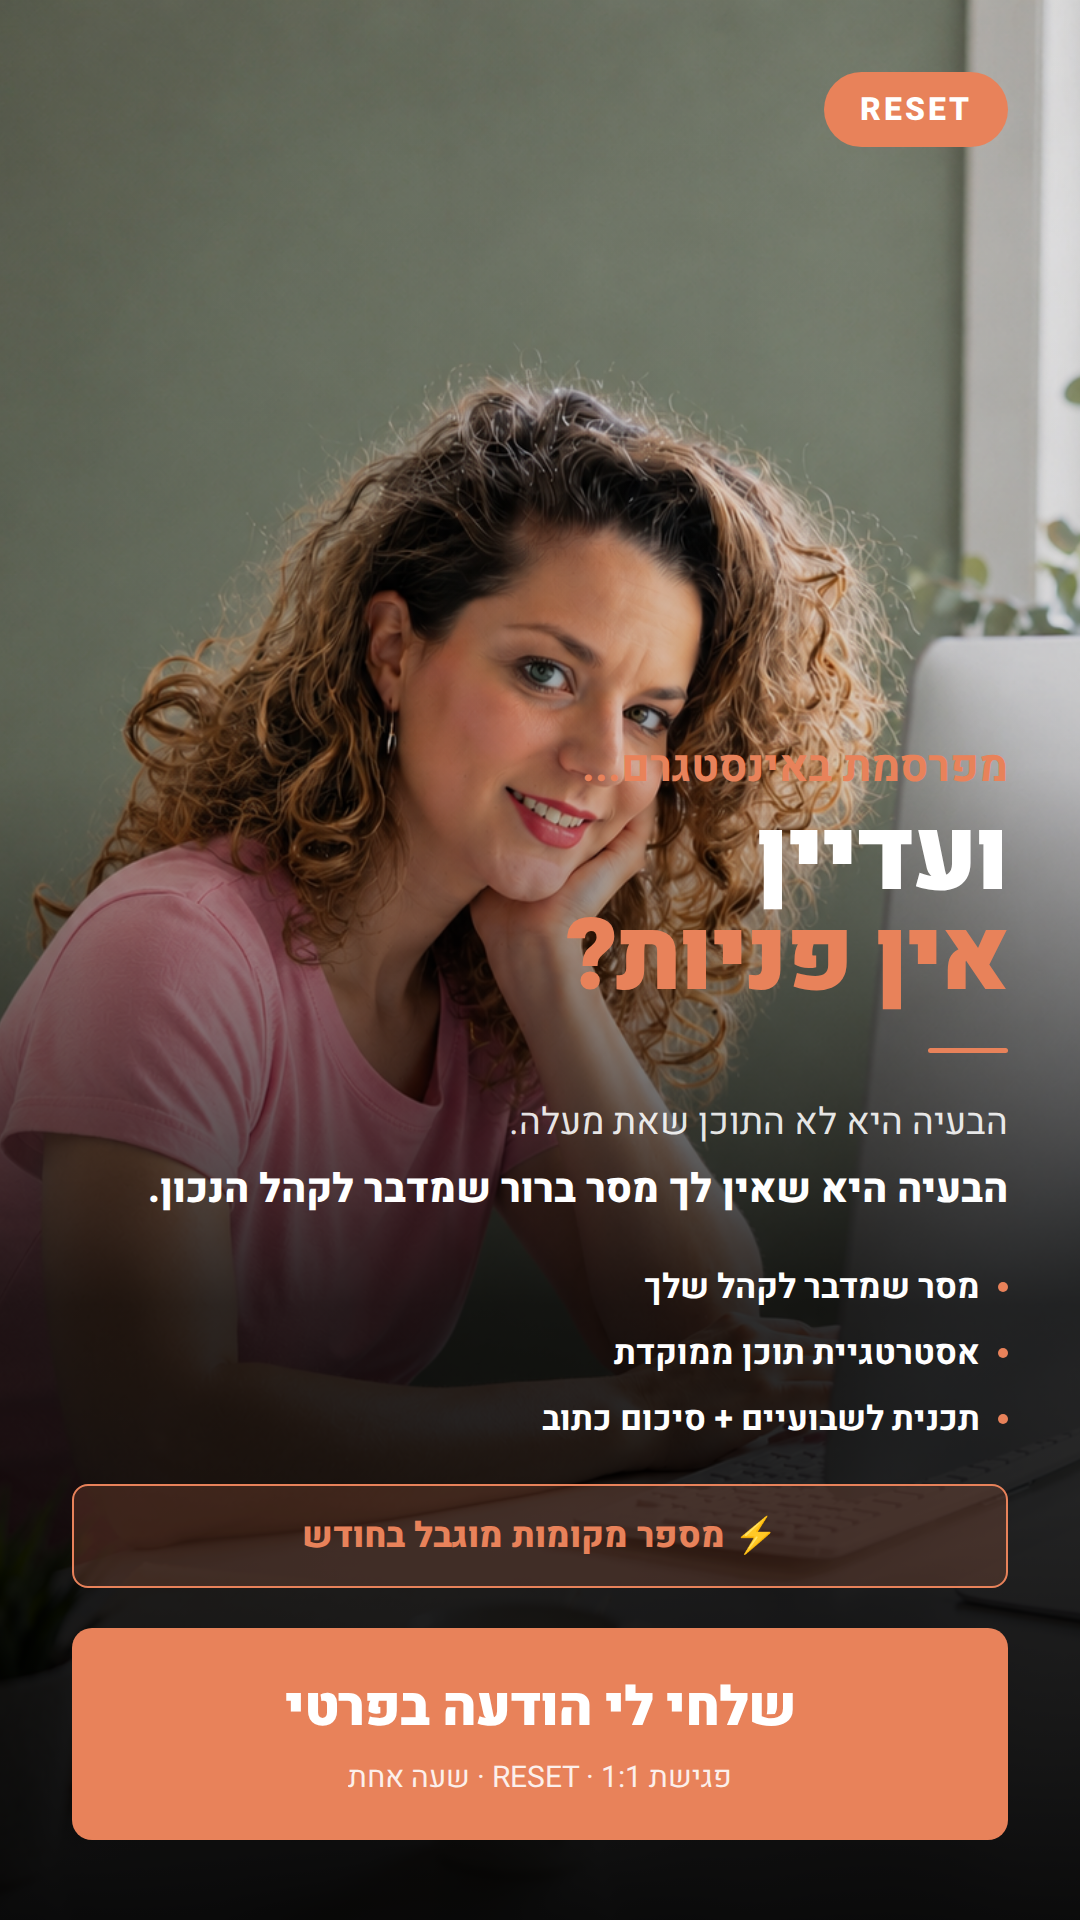
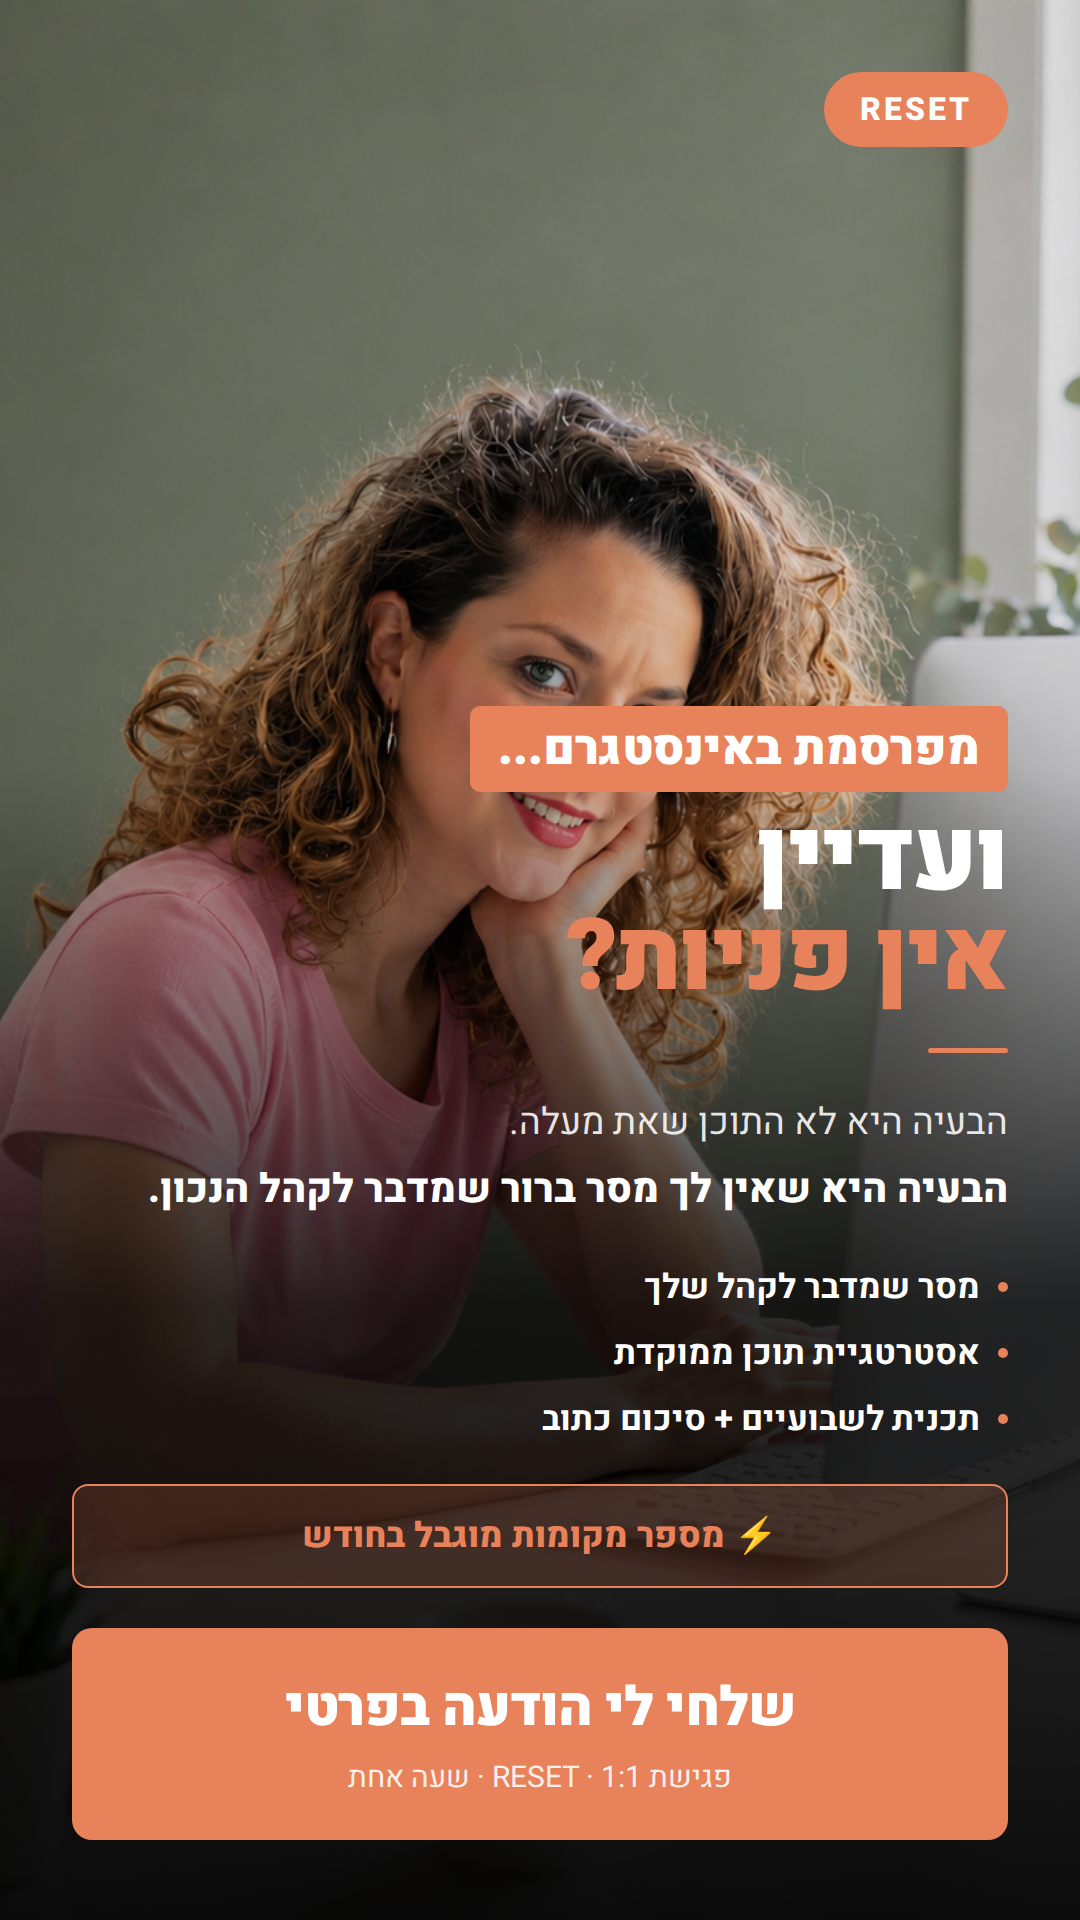
הדגשת שורת מפרסמת באינסטגרם עם רקע כתום
https://claude.ai/code/session_015coCzKKEkkh3KoZVpcAhkY

Changed region(s): [[0.4278, 0.3438, 0.9472, 0.4375]]

diff --git a/public/מוצר reset/reset-ad.html b/public/מוצר reset/reset-ad.html
@@ -101,10 +101,14 @@
 
   /* וו */
   .hook-sub {
-    font-size: 44px;
-    font-weight: 700;
-    color: #E8825A;
-    margin-bottom: 8px;
+    font-size: 48px;
+    font-weight: 900;
+    color: #fff;
+    background: #E8825A;
+    display: inline-block;
+    padding: 8px 28px;
+    border-radius: 10px;
+    margin-bottom: 16px;
   }
 
   .hook-main {